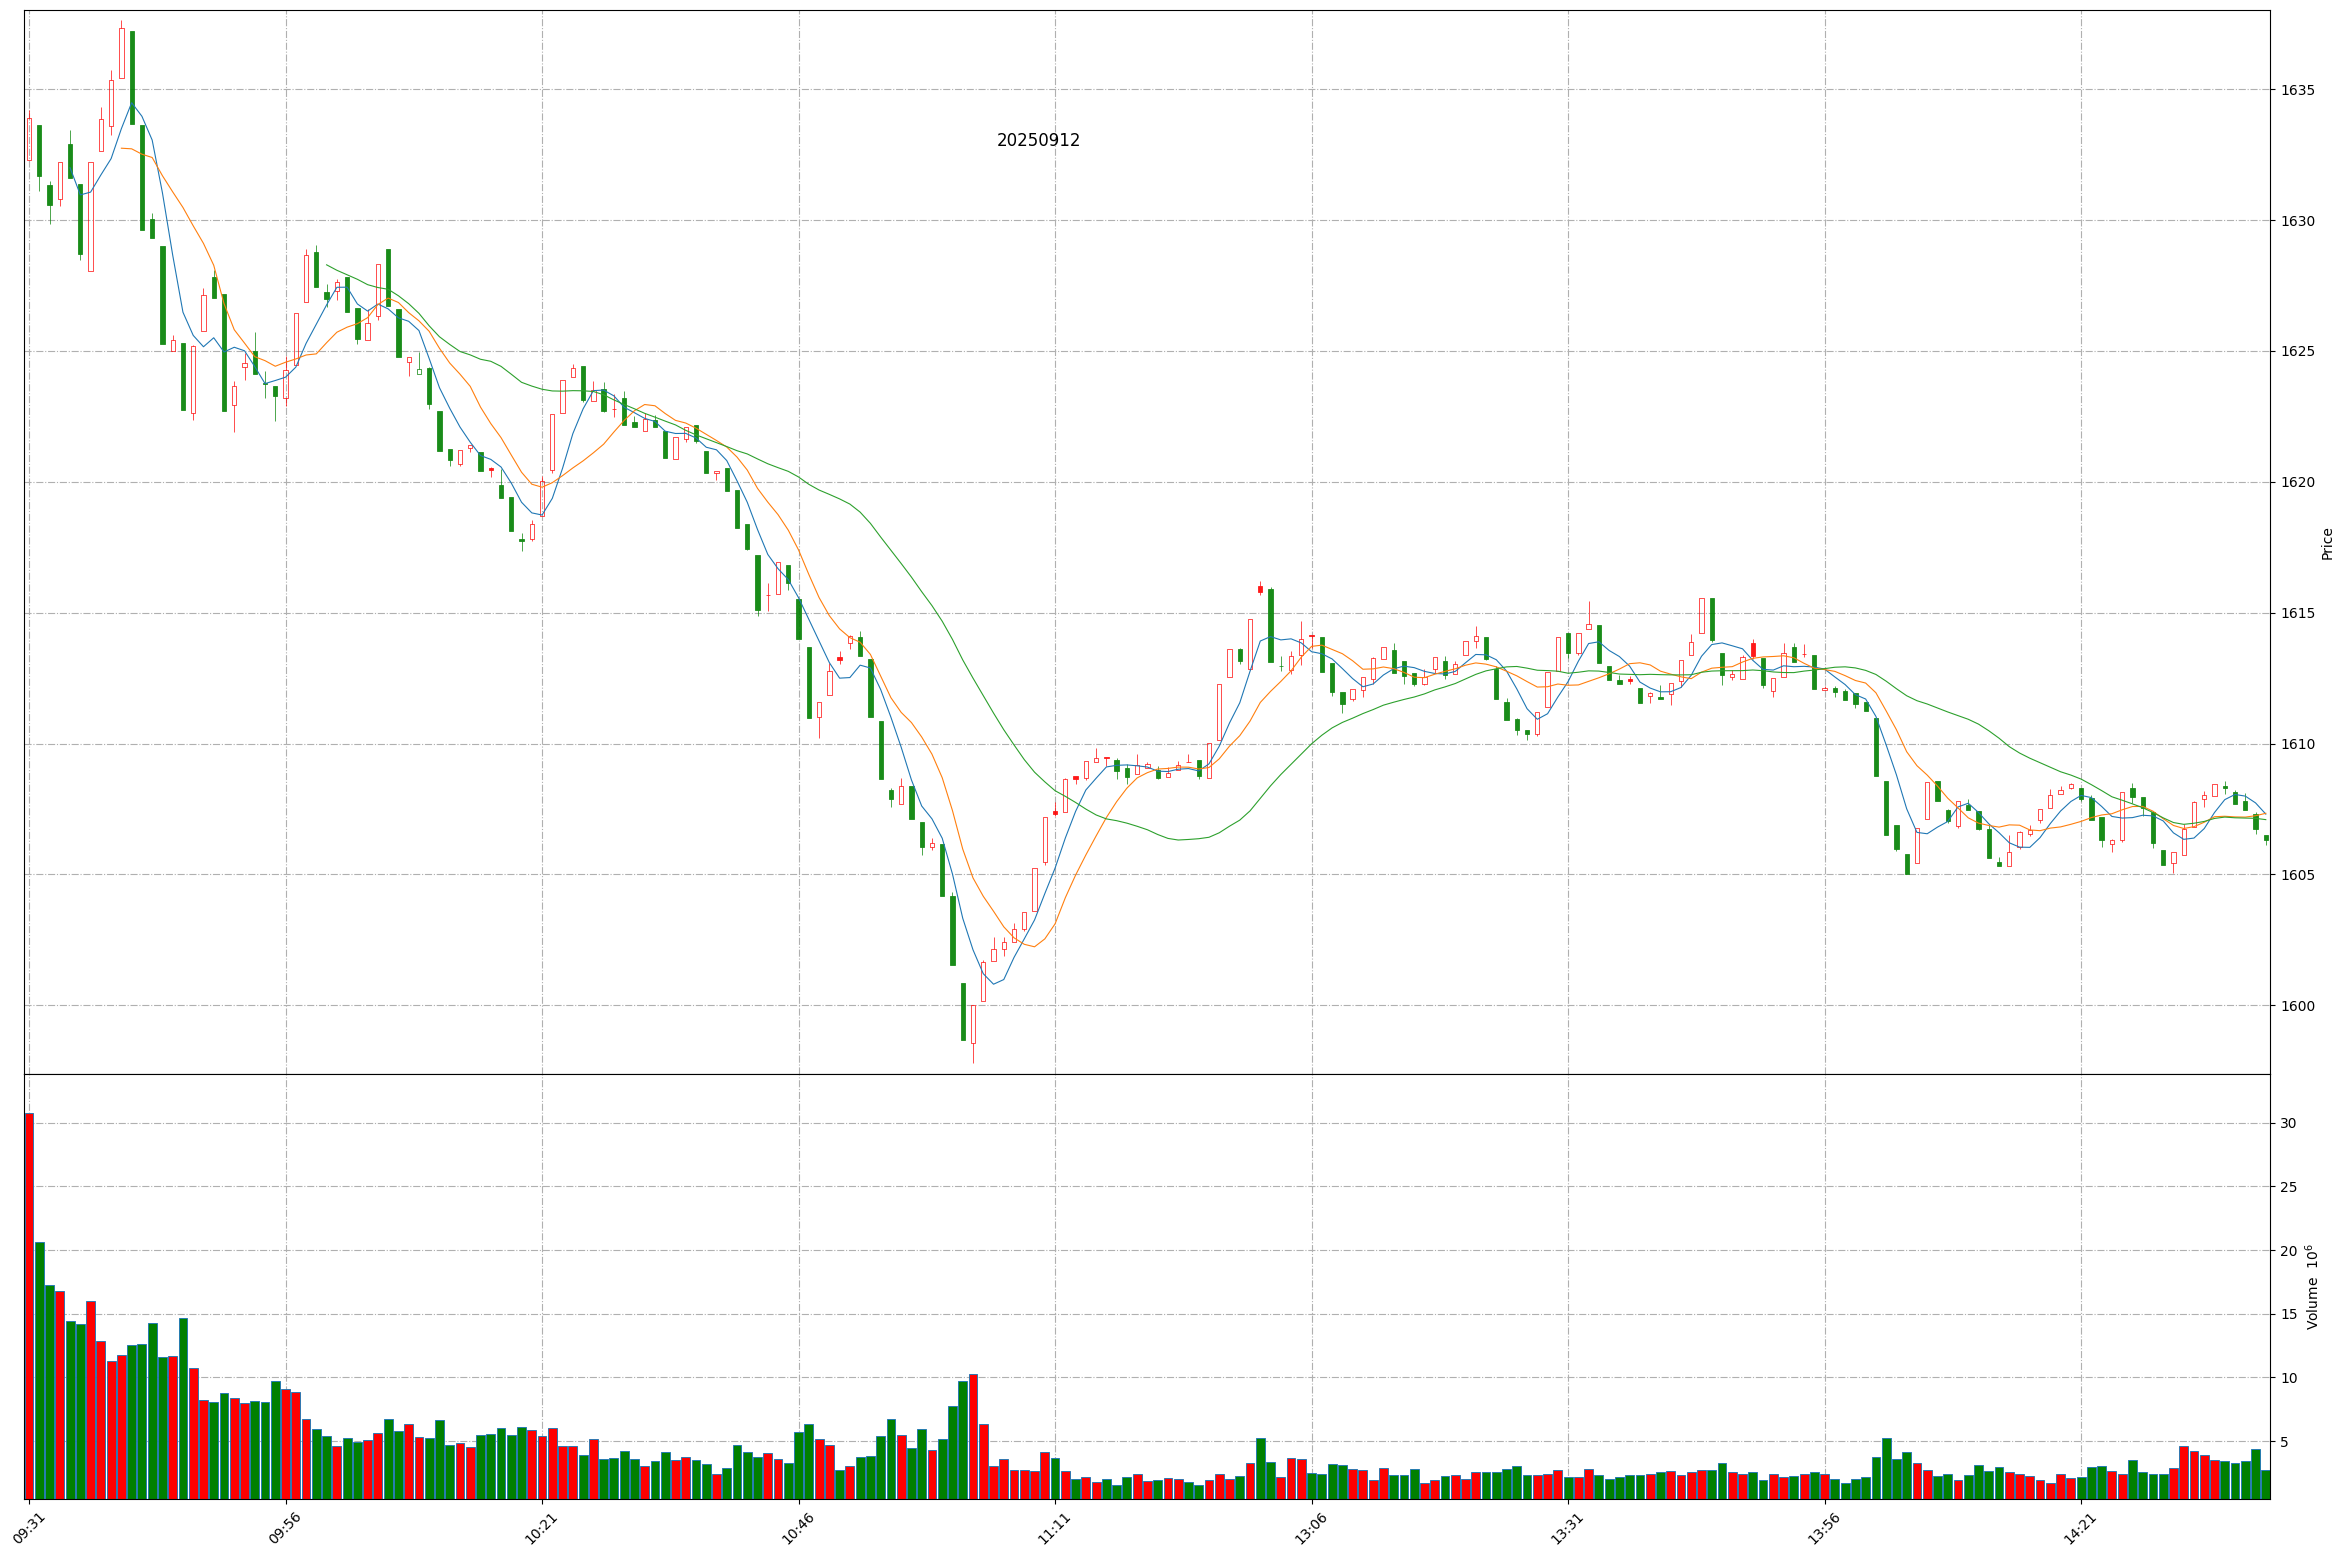
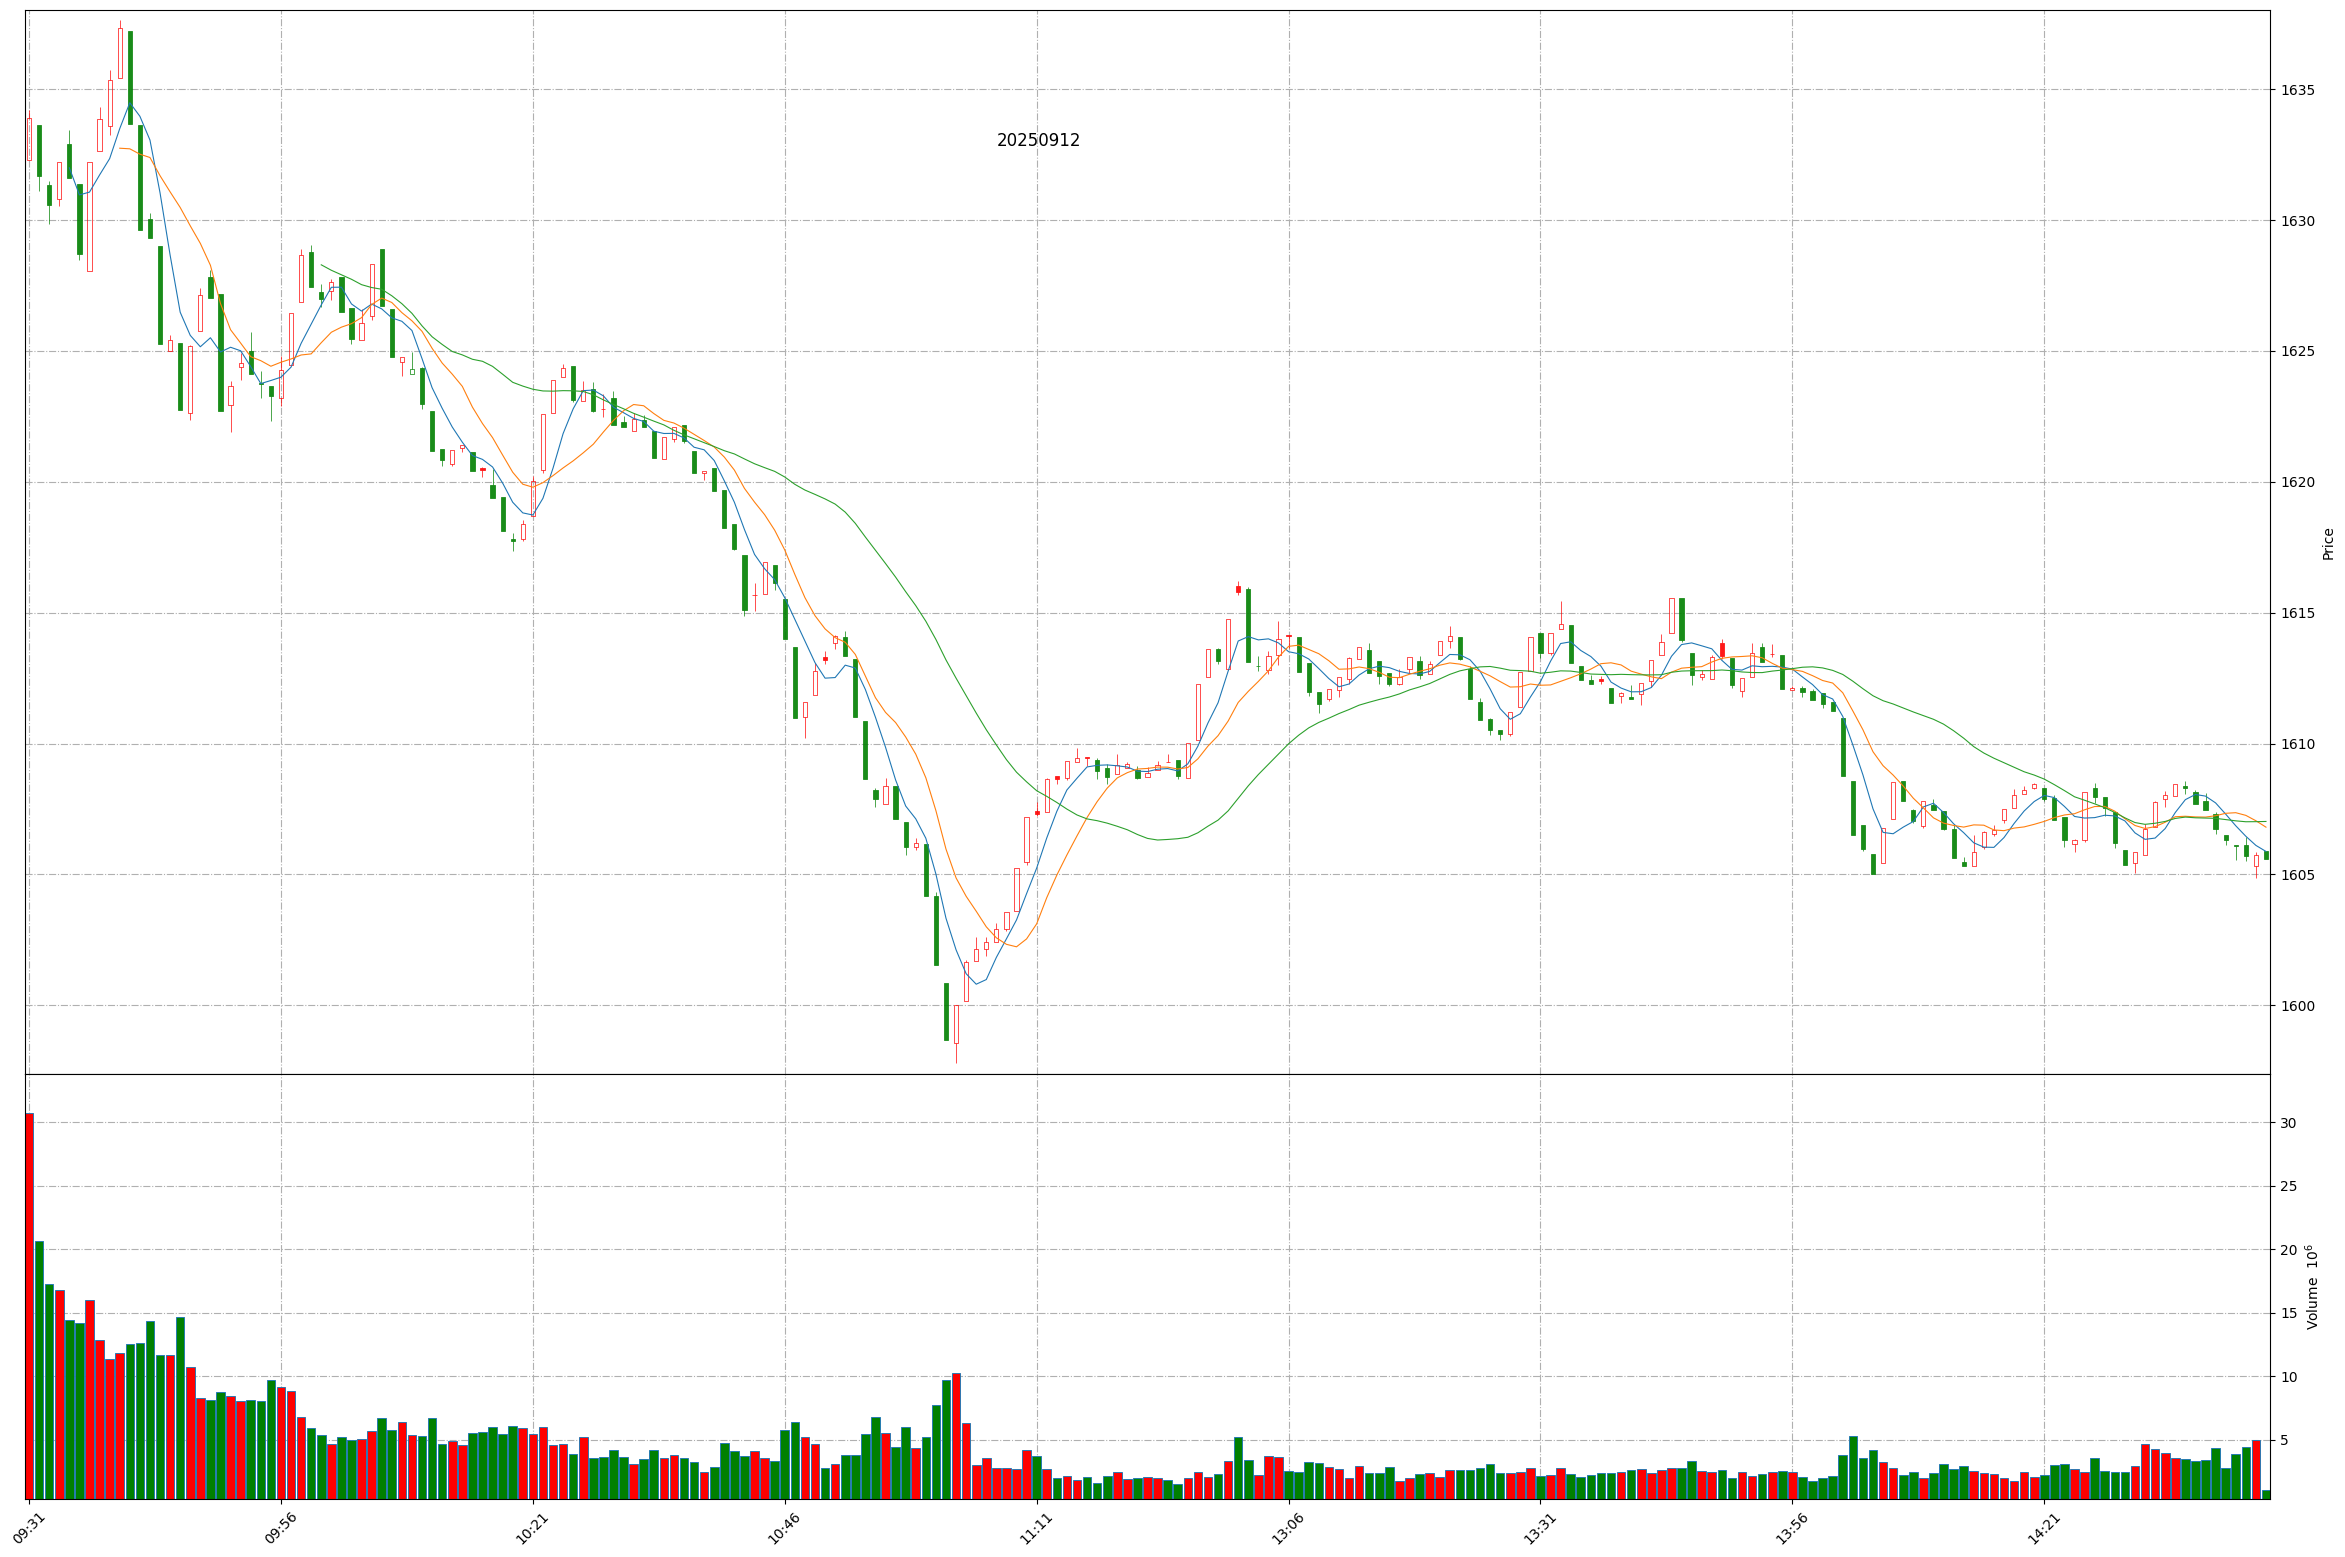
Github action update at 2025-09-12 14:42:25.

diff --git a/README.md b/README.md
@@ -1,11 +1,11 @@
 
 # Daily-A-share-market-quotes 每日 A 股指数（5min 更新）- 20250912
 
-### 上证指数 20250912 14:39
+### 上证指数 20250912 14:42
 ![](./fig/2025/9/20250912-sh000001.png)
 
-### 深证成指 20250912 14:39
+### 深证成指 20250912 14:42
 ![](./fig/2025/9/20250912-sz399001.png)
 
-### 北证50 20250912 14:39
+### 北证50 20250912 14:42
 ![](./fig/2025/9/20250912-bj899050.png)
